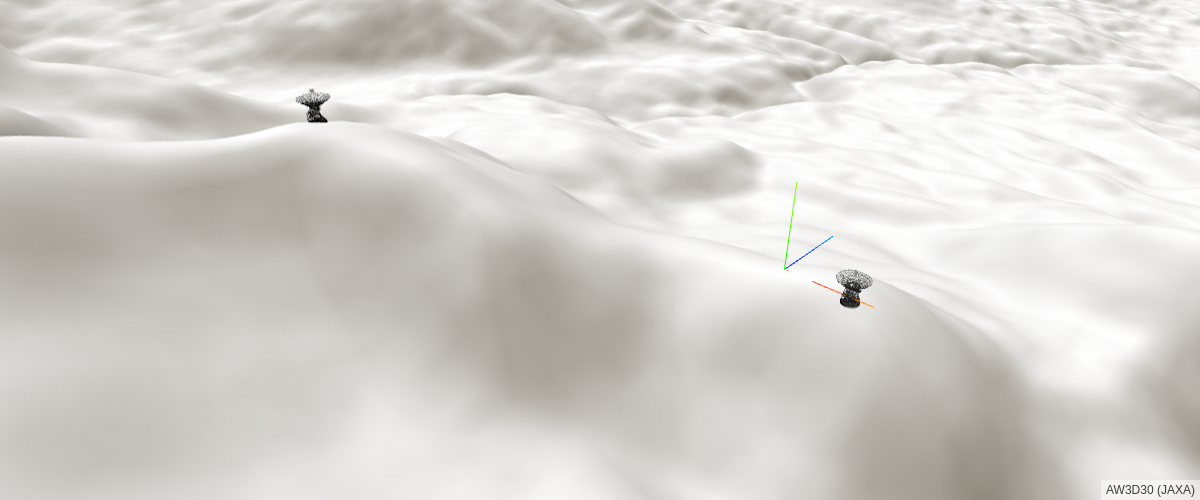
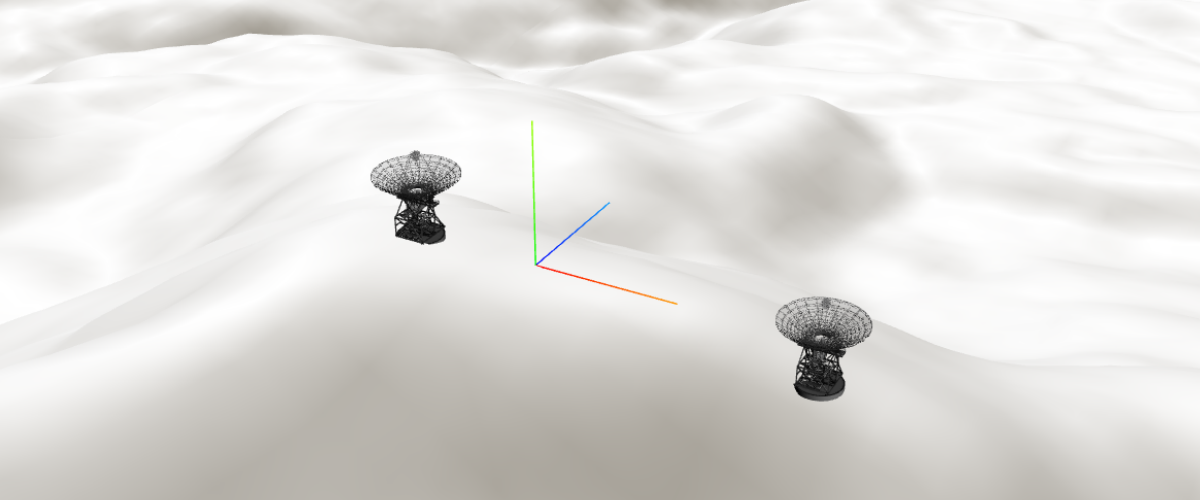
Fix three.js on terrain example (#3860)
* Fix race between map load and model load

* Adjust positions

* Change image

diff --git a/test/examples/add-3d-model-with-terrain.html b/test/examples/add-3d-model-with-terrain.html
@@ -40,14 +40,13 @@
 
             const map = new maplibregl.Map({
                 container: 'map',
-                center: [11.53, 47.668],
-                zoom: 15,
+                center: [11.5257, 47.668],
+                zoom: 16.27,
                 pitch: 60,
-                bearing: -45,
+                bearing: -28.5,
                 antialias: true,
                 style: {
                     version: 8,
-                    glyphs: 'https://demotiles.maplibre.org/font/{fontstack}/{range}.pbf',
                     layers: [
                         {
                             id: 'baseColor', // Hides edges of terrain tiles, which have 'walls' going down to 0.
@@ -107,13 +106,10 @@
                 return model;
             }
 
-            const model1 = await loadModel();
-            const model2 = model1.clone();
-
             // Known locations. We'll infer the elevation of those locations once terrain is loaded.
-            const sceneOrigin = new maplibregl.LngLat(11.53, 47.67);
-            const model1Location = new maplibregl.LngLat(11.531, 47.67);
-            const model2Location = new maplibregl.LngLat(11.5245, 47.6675);
+            const sceneOrigin = new maplibregl.LngLat(11.5255, 47.6677);
+            const model1Location = new maplibregl.LngLat(11.527, 47.6678);
+            const model2Location = new maplibregl.LngLat(11.5249, 47.6676);
 
             // Configuration of the custom layer for a 3D model, implementing `CustomLayerInterface`.
             const customLayer = {
@@ -141,7 +137,7 @@
                     this.scene.add(light);
 
                     // Axes helper to show how threejs scene is oriented.
-                    const axesHelper = new THREE.AxesHelper(100);
+                    const axesHelper = new THREE.AxesHelper(60);
                     this.scene.add(axesHelper);
 
                     // Getting model elevations (in meters) relative to scene origin from maplibre's terrain.
@@ -203,7 +199,10 @@
                 }
             };
 
-            await map.once('load');
+            const results = await Promise.all([map.once('load'), loadModel()]);
+            const model1 = results[1];
+            const model2 = model1.clone();
+
             map.addLayer(customLayer);
         }
 
